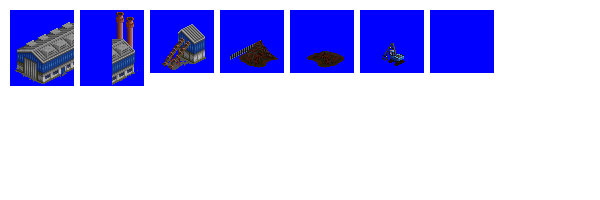
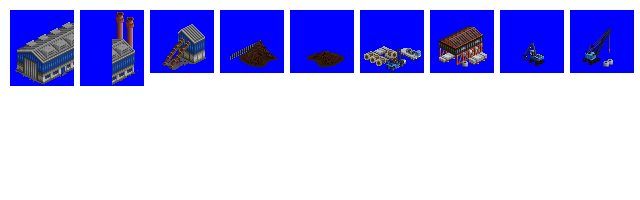
Change: improved Electric Arc Furnace appearance

Changed region(s): [[0.0, 0.03, 0.78, 0.45], [0.81, 0.03, 1.0, 0.39]]

diff --git a/src/industries/electric_arc_furnace.py b/src/industries/electric_arc_furnace.py
@@ -19,6 +19,8 @@ industry.add_tile(id='electric_arc_furnace_tile_1',
                   animation_length=71,
                   animation_looping=True,
                   animation_speed=2,
+                  custom_animation_control={'macro':'random_first_frame',
+                                            'animation_triggers': 'bitmask(ANIM_TRIGGER_INDTILE_CONSTRUCTION_STATE)'},
                   location_checks=TileLocationChecks(require_effectively_flat=True,
                                                      disallow_industry_adjacent=True))
 
@@ -43,18 +45,23 @@ spriteset_scrap_1 = industry.add_spriteset(
 spriteset_scrap_2 = industry.add_spriteset(
     sprites = [(290, 10, 64, 63, -31, -32)],
 )
-spriteset_6 = industry.add_spriteset(
+spriteset_metal_1 = industry.add_spriteset(
     sprites = [(360, 10, 64, 63, -31, -32)],
 )
-spriteset_7 = industry.add_spriteset(
+spriteset_metal_2 = industry.add_spriteset(
     sprites = [(430, 10, 64, 63, -31, -32)],
+)
+spriteset_crane_1 = industry.add_spriteset(
+    sprites = [(500, 10, 64, 63, -31, -32)],
+)
+spriteset_crane_2 = industry.add_spriteset(
+    sprites = [(570, 10, 64, 63, -31, -32)],
 )
 sprite_smoke_1 = industry.add_smoke_sprite(
     smoke_type = 'white_smoke_small',
     xoffset= -5,
     yoffset= 0,
     zoffset= 40,
-    animation_frame_offset = 8,
 )
 sprite_smoke_2 = industry.add_smoke_sprite(
     smoke_type = 'white_smoke_small',
@@ -107,13 +114,33 @@ industry.add_spritelayout(
     fences = ['nw','ne','se','sw']
 )
 industry.add_spritelayout(
-    id = 'electric_arc_furnace_spritelayout_6',
+    id = 'electric_arc_furnace_spritelayout_crane_1',
     ground_sprite = sprite_ground,
     ground_overlay = sprite_ground_overlay,
-    building_sprites = [spriteset_6],
+    building_sprites = [spriteset_crane_1],
     fences = ['nw','ne','se','sw']
 )
-
+industry.add_spritelayout(
+    id = 'electric_arc_furnace_spritelayout_crane_2',
+    ground_sprite = sprite_ground,
+    ground_overlay = sprite_ground_overlay,
+    building_sprites = [spriteset_crane_2],
+    fences = ['nw','ne','se','sw']
+)
+industry.add_spritelayout(
+    id = 'electric_arc_furnace_spritelayout_metal_1',
+    ground_sprite = sprite_ground,
+    ground_overlay = sprite_ground_overlay,
+    building_sprites = [spriteset_metal_1],
+    fences = ['nw','ne','se','sw']
+)
+industry.add_spritelayout(
+    id = 'electric_arc_furnace_spritelayout_metal_2',
+    ground_sprite = sprite_ground,
+    ground_overlay = sprite_ground_overlay,
+    building_sprites = [spriteset_metal_2],
+    fences = ['nw','ne','se','sw']
+)
 industry.add_industry_layout(
     id = 'electric_arc_furnace_industry_layout_1',
     layout = [(0, 0, 'electric_arc_furnace_tile_1', 'electric_arc_furnace_spritelayout_2'),
@@ -126,15 +153,15 @@ industry.add_industry_layout(
               (1, 2, 'electric_arc_furnace_tile_1', 'electric_arc_furnace_spritelayout_1'),
               (1, 3, 'electric_arc_furnace_tile_1', 'electric_arc_furnace_spritelayout_scrap_1'),
               (1, 4, 'electric_arc_furnace_tile_1', 'electric_arc_furnace_spritelayout_scrap_1'),
-              (2, 0, 'electric_arc_furnace_tile_1', 'electric_arc_furnace_spritelayout_scrap_2'),
-              (2, 1, 'electric_arc_furnace_tile_1', 'electric_arc_furnace_spritelayout_scrap_2'),
+              (2, 0, 'electric_arc_furnace_tile_1', 'electric_arc_furnace_spritelayout_metal_2'),
+              (2, 1, 'electric_arc_furnace_tile_1', 'electric_arc_furnace_spritelayout_metal_1'),
               (2, 2, 'electric_arc_furnace_tile_1', 'electric_arc_furnace_spritelayout_empty'),
-              (2, 3, 'electric_arc_furnace_tile_1', 'electric_arc_furnace_spritelayout_6'),
-              (2, 4, 'electric_arc_furnace_tile_1', 'electric_arc_furnace_spritelayout_scrap_2'),
-              (3, 0, 'electric_arc_furnace_tile_1', 'electric_arc_furnace_spritelayout_scrap_2'),
-              (3, 1, 'electric_arc_furnace_tile_1', 'electric_arc_furnace_spritelayout_scrap_2'),
+              (2, 3, 'electric_arc_furnace_tile_1', 'electric_arc_furnace_spritelayout_crane_1'),
+              (2, 4, 'electric_arc_furnace_tile_1', 'electric_arc_furnace_spritelayout_scrap_1'),
+              (3, 0, 'electric_arc_furnace_tile_1', 'electric_arc_furnace_spritelayout_metal_2'),
+              (3, 1, 'electric_arc_furnace_tile_1', 'electric_arc_furnace_spritelayout_crane_2'),
               (3, 2, 'electric_arc_furnace_tile_1', 'electric_arc_furnace_spritelayout_empty'),
-              (3, 3, 'electric_arc_furnace_tile_1', 'electric_arc_furnace_spritelayout_6'),
-              (3, 4, 'electric_arc_furnace_tile_1', 'electric_arc_furnace_spritelayout_scrap_2'),
+              (3, 3, 'electric_arc_furnace_tile_1', 'electric_arc_furnace_spritelayout_scrap_2'),
+              (3, 4, 'electric_arc_furnace_tile_1', 'electric_arc_furnace_spritelayout_crane_1'),
     ]
 )
